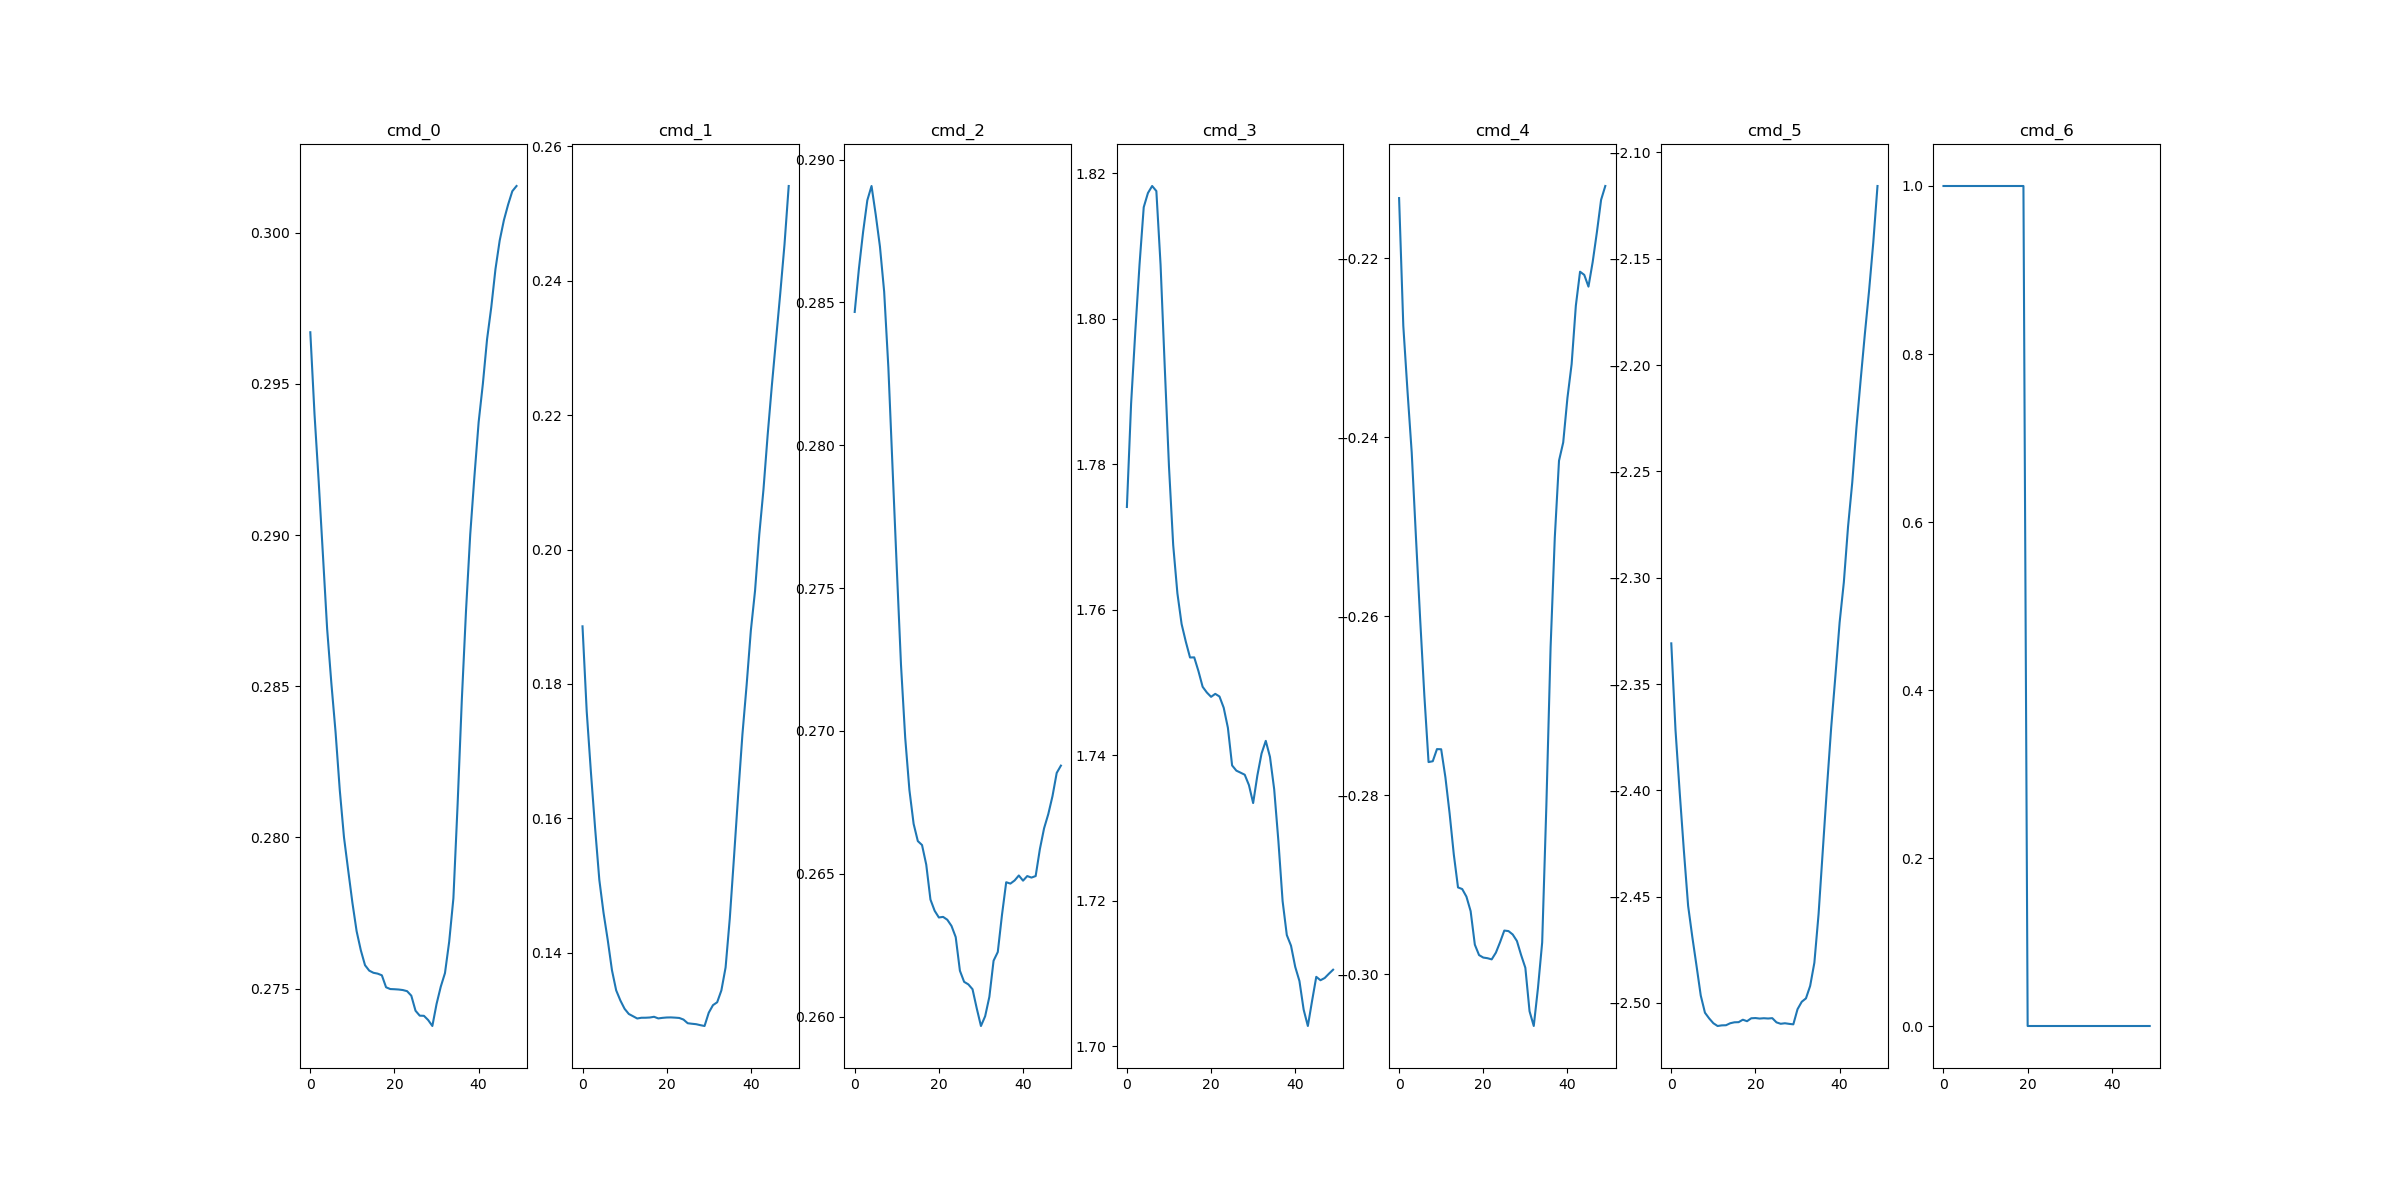
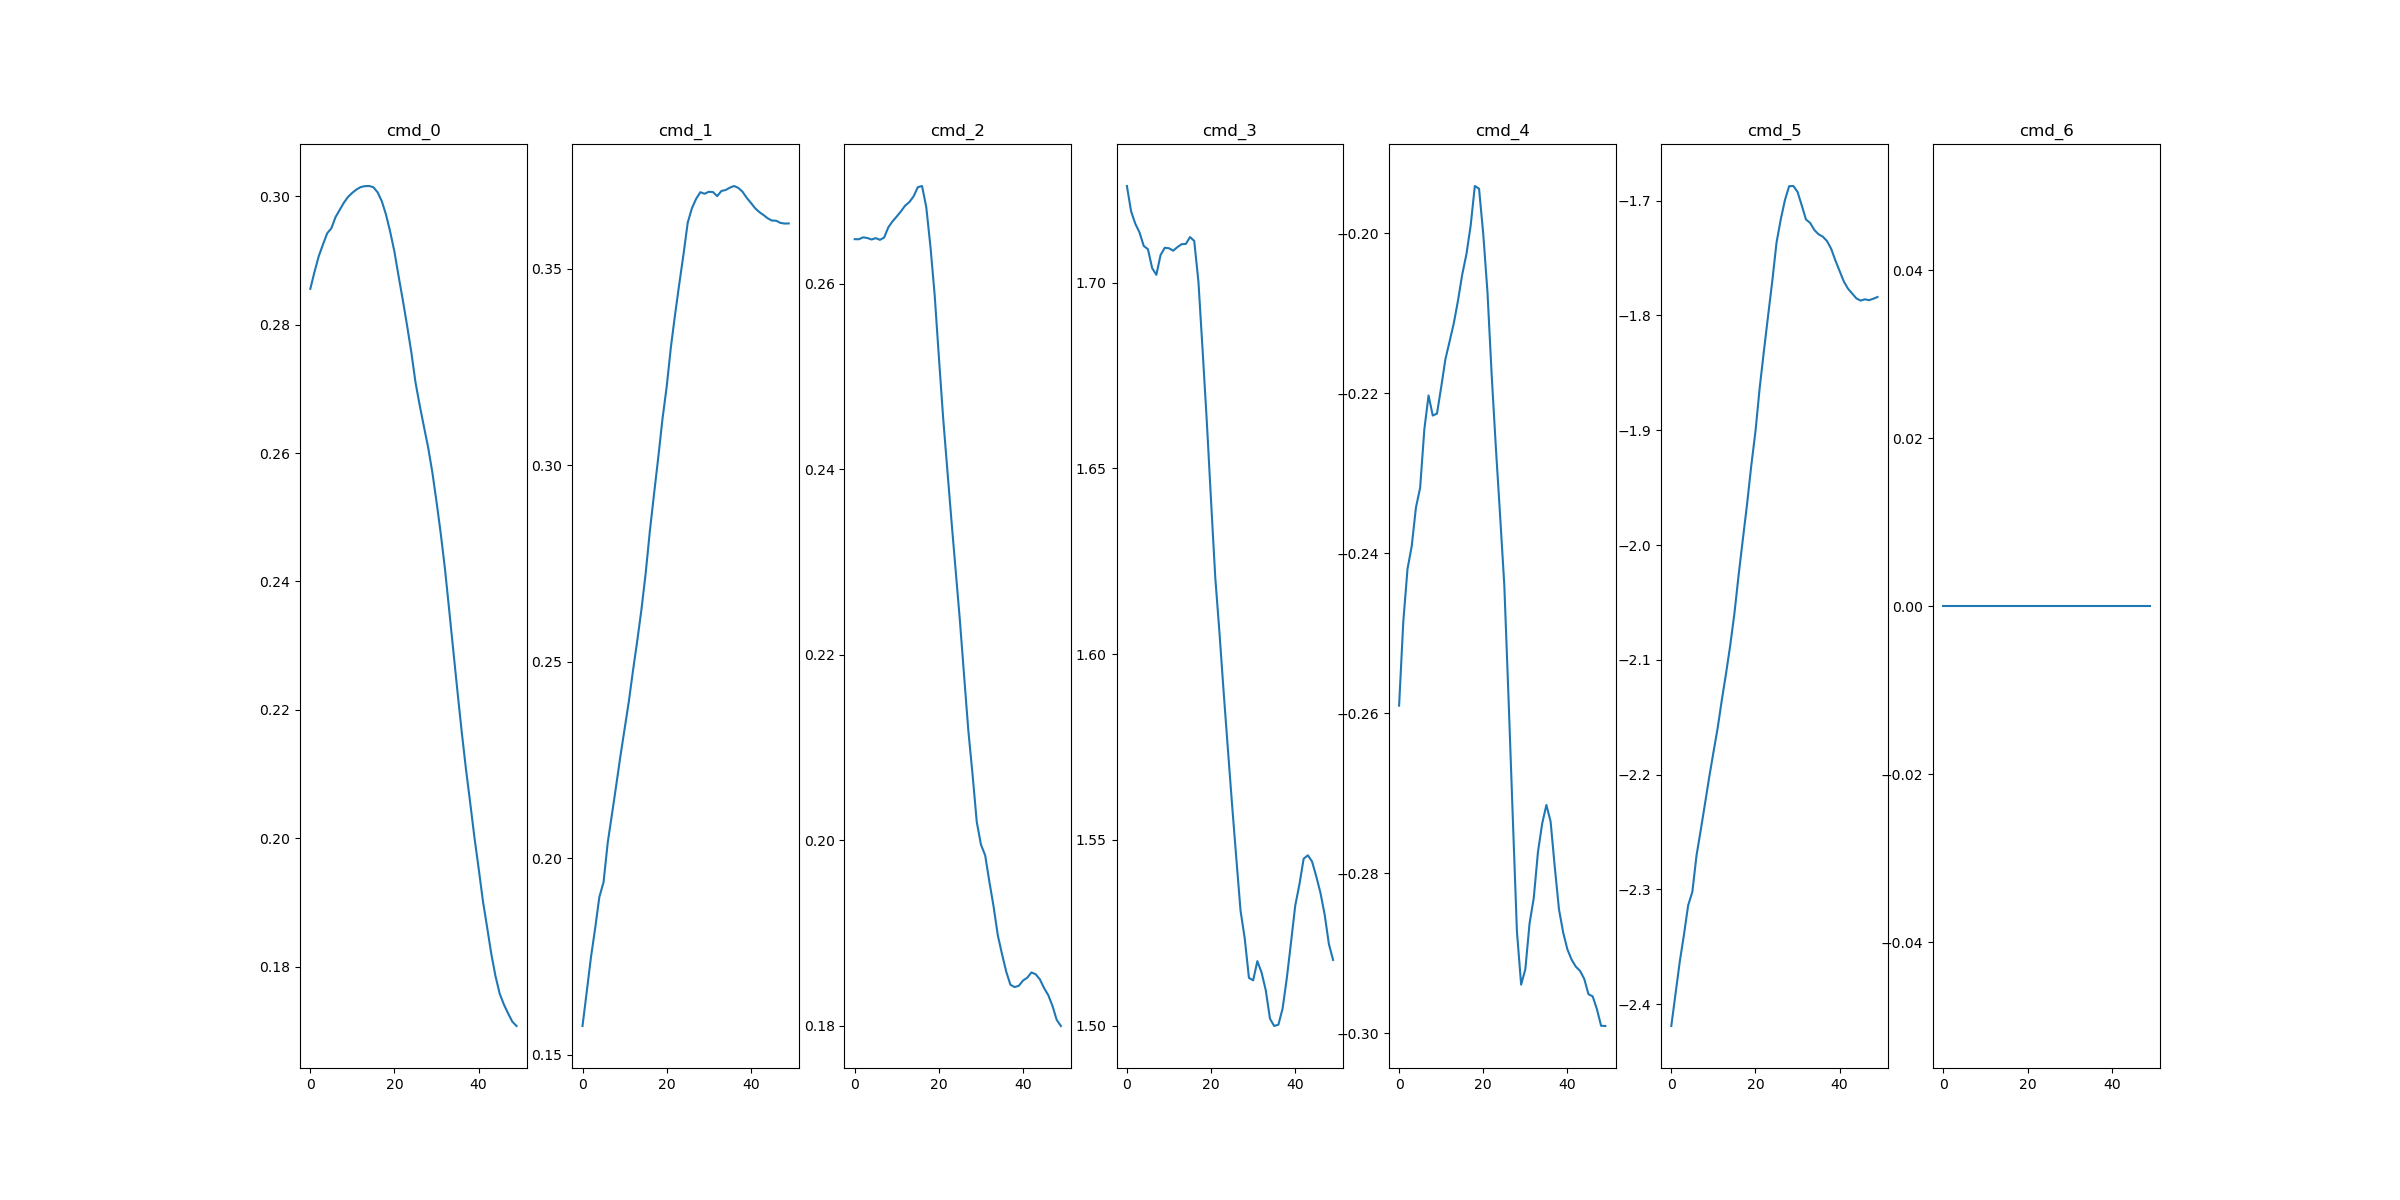
mod kuavo env

diff --git a/diffusion_policy/real_world/real_env_kuavo.py b/diffusion_policy/real_world/real_env_kuavo.py
@@ -186,8 +186,8 @@ class ObsBuffer:
     
     
     def obs_buffer_is_ready(self):
-        return all([len(self.obs_buffer_data[key]["data"]) == self.img_buffer_size for key in DEFAULT_OBS_KEY_MAP["img"]]) and \
-               all([len(self.obs_buffer_data[key]["data"]) == self.robot_state_buffer_size for key in DEFAULT_OBS_KEY_MAP["low_dim"]])
+        return all([len(self.obs_buffer_data[key]["data"]) == self.img_buffer_size for key in DEFAULT_OBS_KEY_MAP["img"] if "state" in key]) and \
+               all([len(self.obs_buffer_data[key]["data"]) == self.robot_state_buffer_size for key in DEFAULT_OBS_KEY_MAP["low_dim"] if "state" in key])
 
     def stop_subscribers(self):
         for key, suber in self.suber_dict.items():
